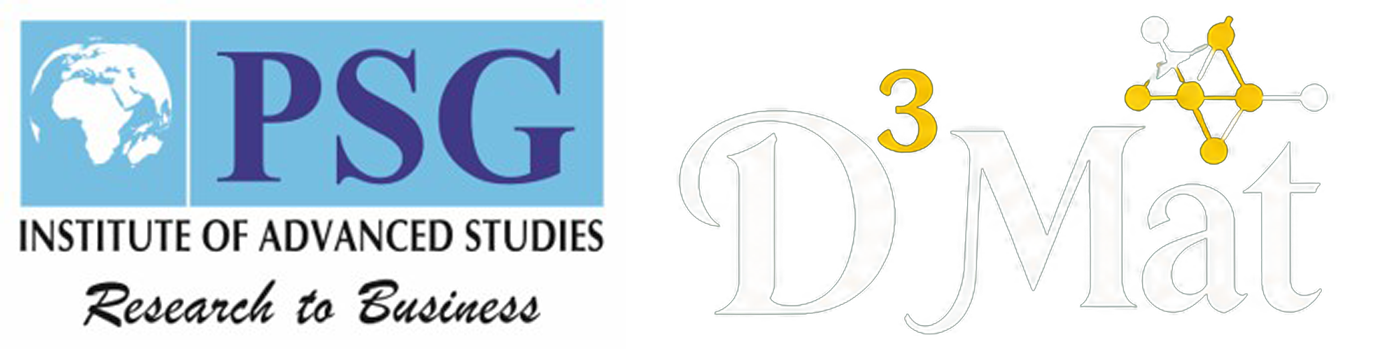
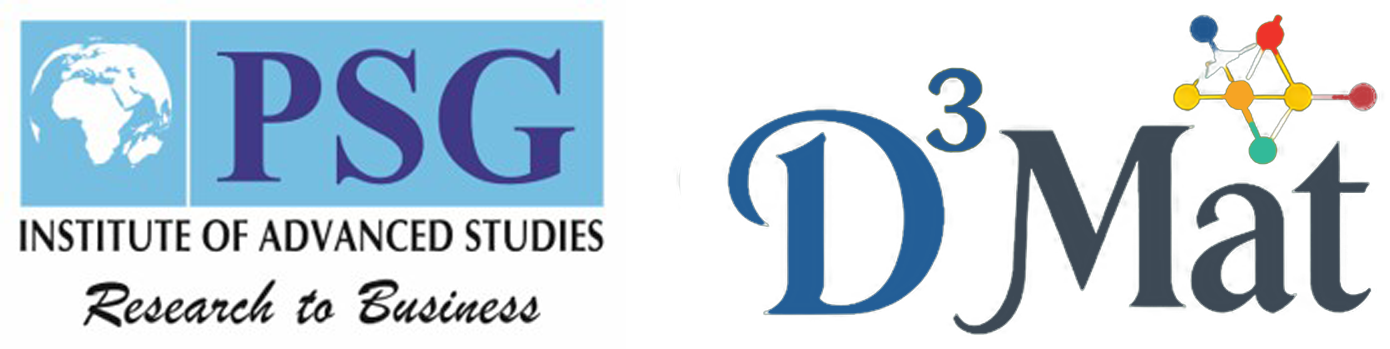
Update website files

Changed region(s): [[0.495, 0.0287, 0.9899, 0.9742]]

diff --git a/index.html b/index.html
@@ -115,9 +115,9 @@
   <section id="intro">
     <div class="intro-container wow fadeIn">
       <br>
-      <img src="media/logo.png" alt="title" class="img-fluid" style="width: 25%; height: auto;">
+      <img src="media/logo_new.png" alt="title" class="img-fluid" style="width: 40%; height: auto;">
       <h2 style="color: #fff; font-weight: bold; font-size: 2.3rem;">
-        <br>First D<sup>3</sup>Mat Workshop on <br>
+        First D<sup>3</sup>Mat Workshop on <br>
         Computational Materials Modelling and Atomistic Simulations
         <br>
       </h2>
